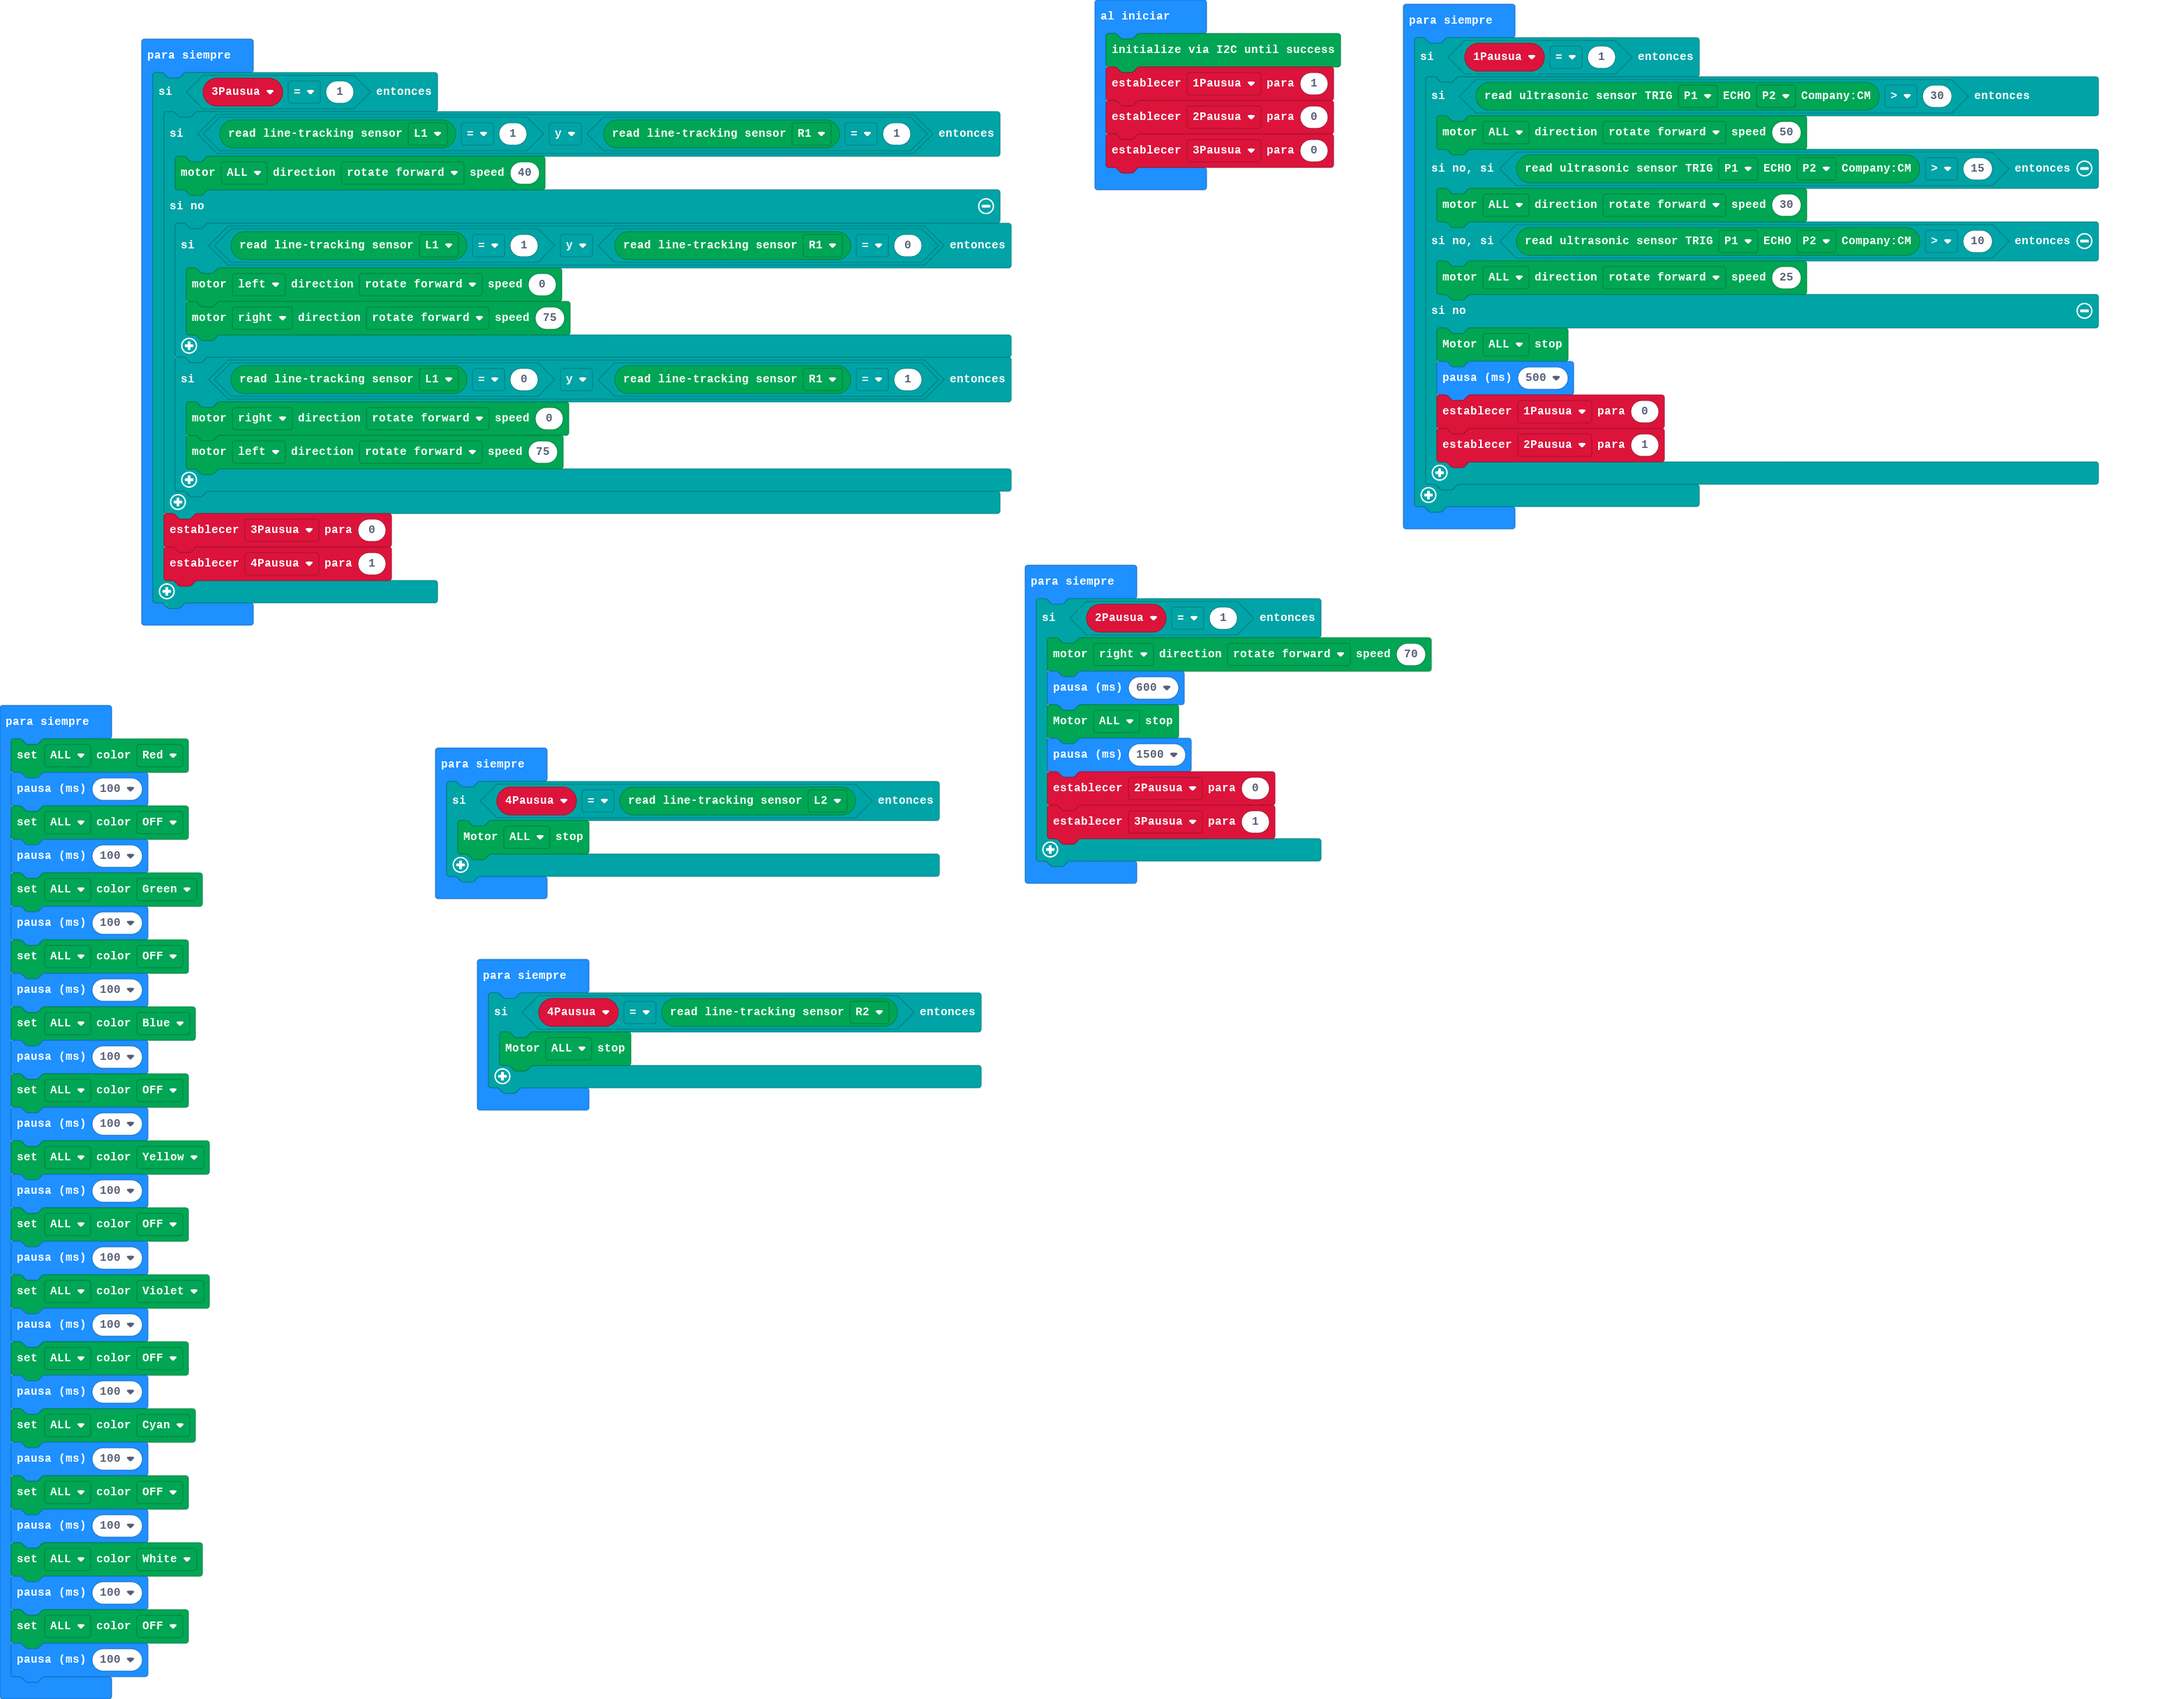
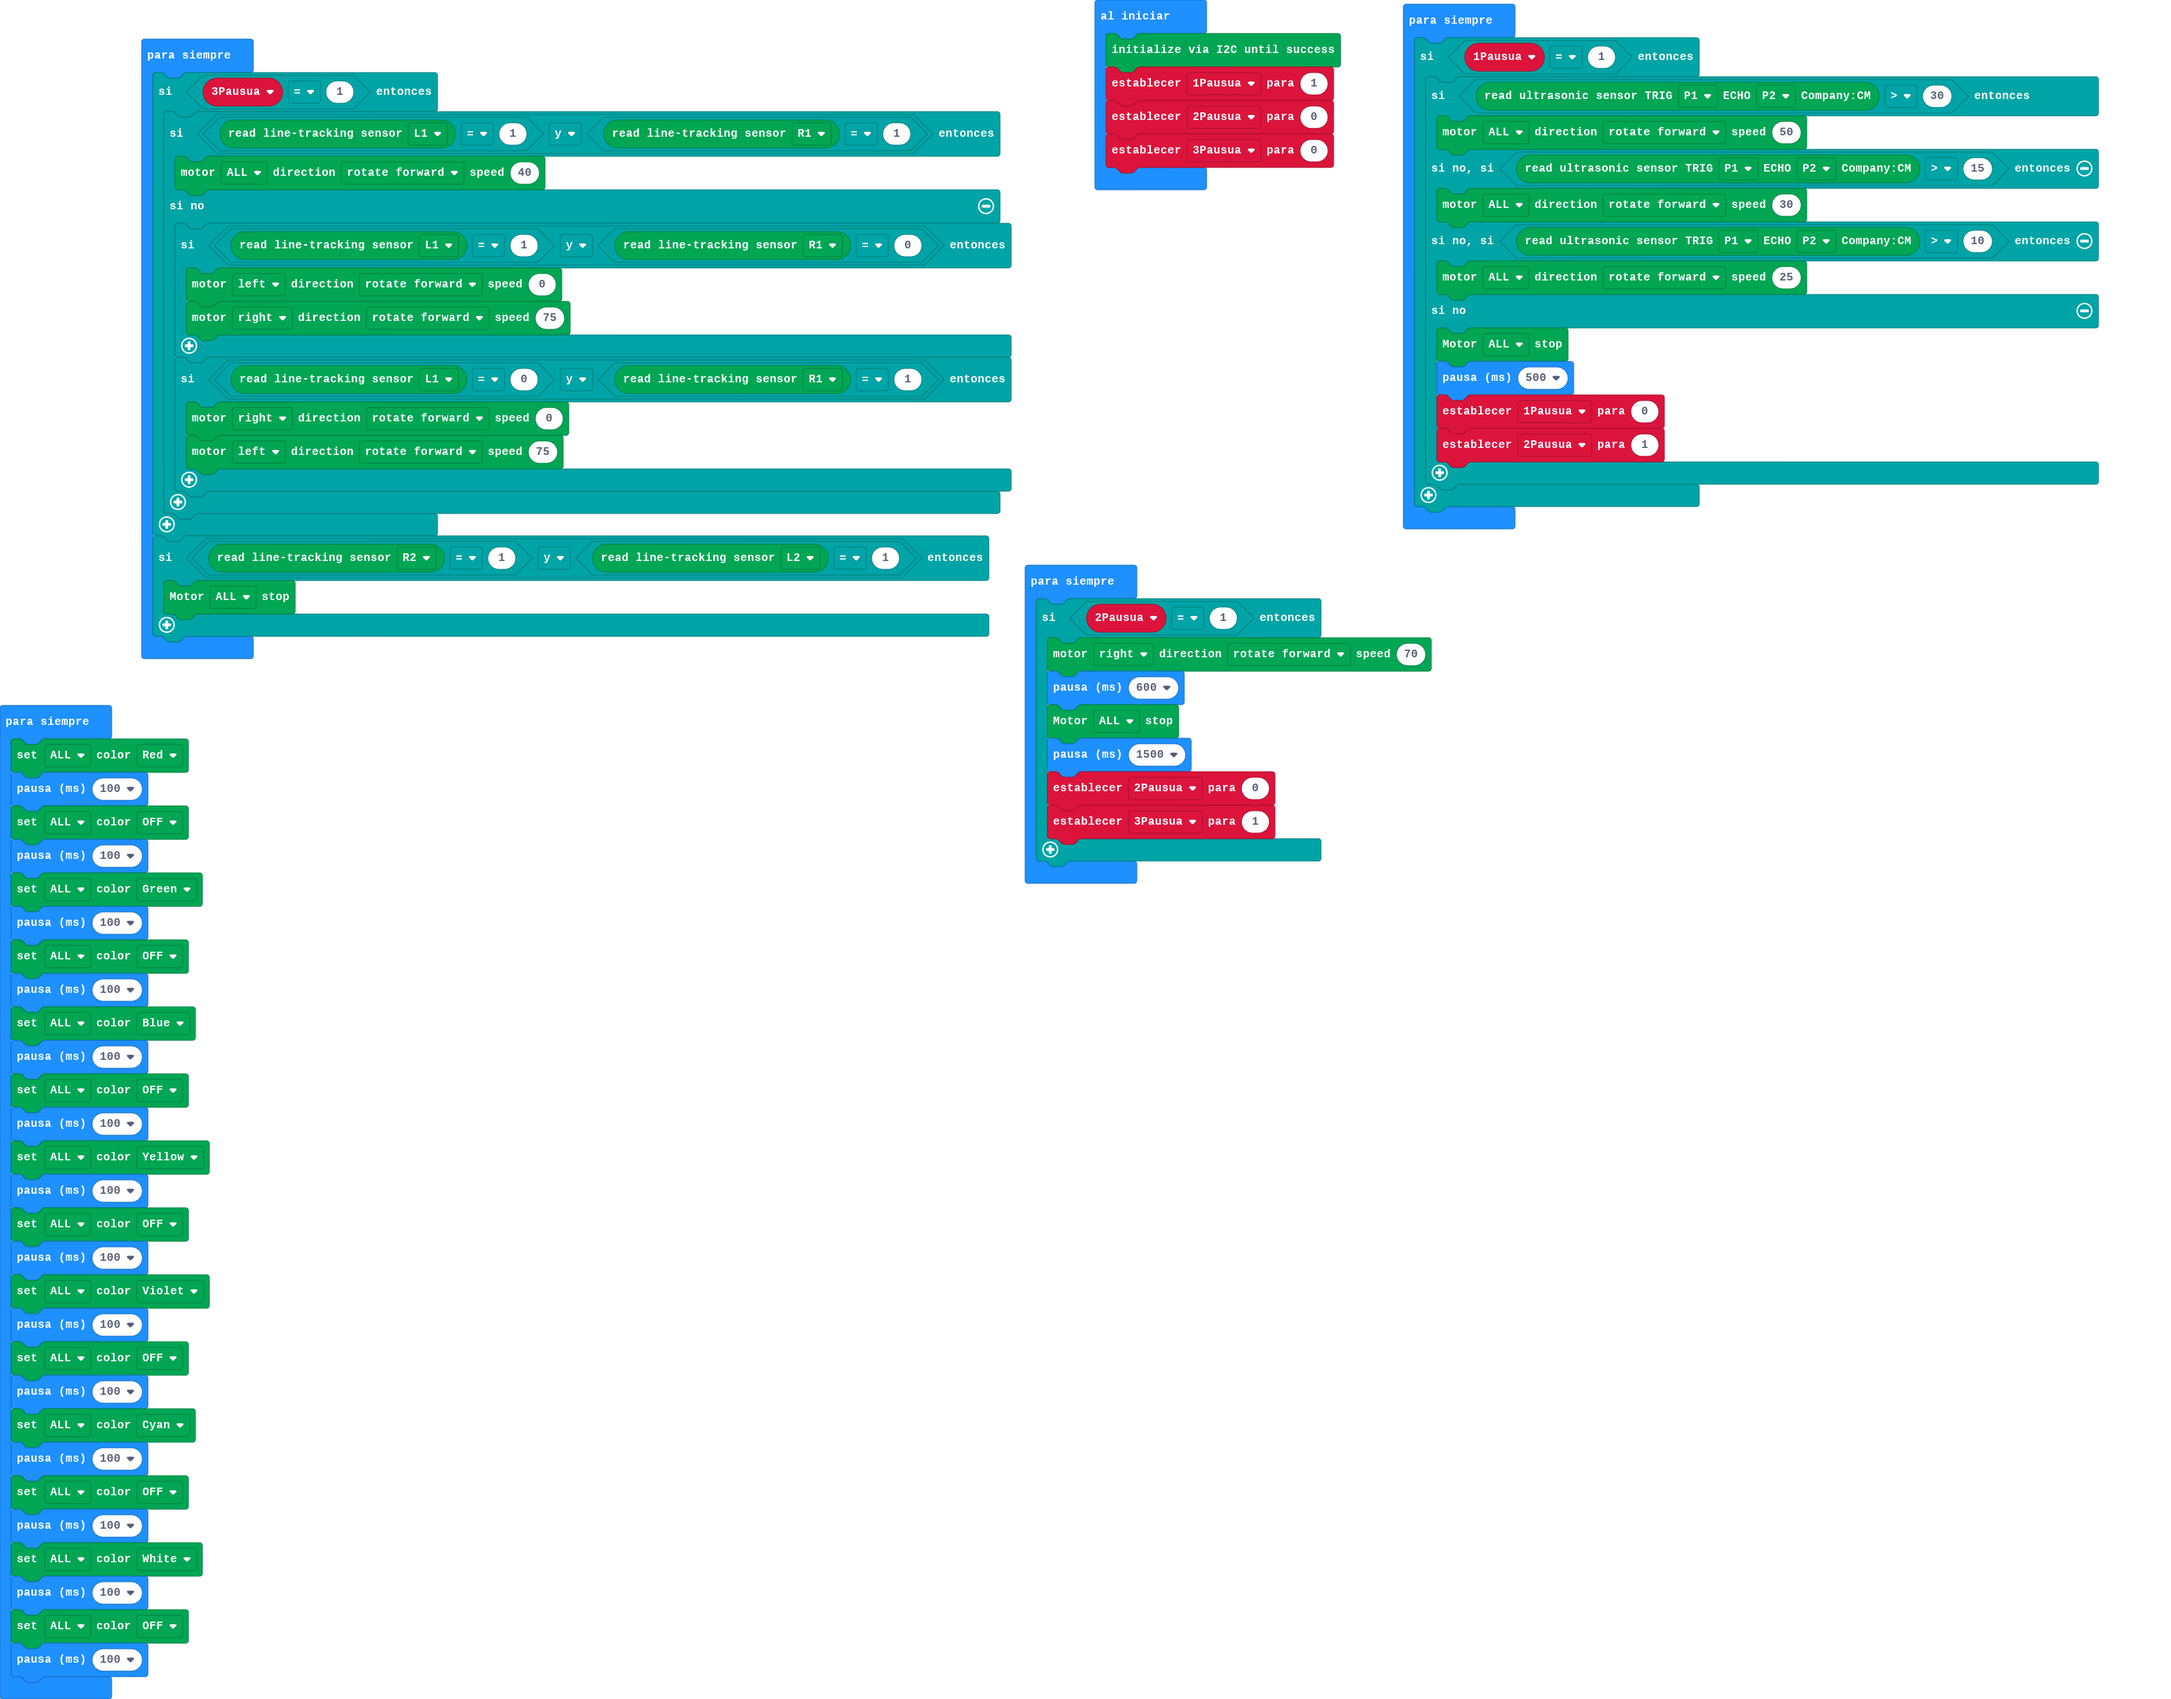
Actualizar main.blocks, main.ts

Changed region(s): [[0.0624, 0.2809, 0.4677, 0.4057], [0.2183, 0.5618, 0.4677, 0.6554], [0.1871, 0.437, 0.4365, 0.5306]]

diff --git a/main.ts b/main.ts
@@ -1,4 +1,3 @@
-let _4Pausua = 0
 DFRobotMaqueenPlus.I2CInit()
 let _1Pausua = 1
 let _2Pausua = 0
@@ -17,8 +16,9 @@ basic.forever(function () {
                 DFRobotMaqueenPlus.mototRun(Motors.M1, Dir.CW, 75)
             }
         }
-        _3Pausua = 0
-        _4Pausua = 1
+    }
+    if (DFRobotMaqueenPlus.readPatrol(Patrol.R2) == 1 && DFRobotMaqueenPlus.readPatrol(Patrol.L2) == 1) {
+        DFRobotMaqueenPlus.mototStop(Motors.ALL)
     }
 })
 basic.forever(function () {
@@ -76,14 +76,4 @@ basic.forever(function () {
     basic.pause(100)
     DFRobotMaqueenPlus.setRGBLight(RGBLight.RGBA, Color.OFF)
     basic.pause(100)
-})
-basic.forever(function () {
-    if (_4Pausua == DFRobotMaqueenPlus.readPatrol(Patrol.L2)) {
-        DFRobotMaqueenPlus.mototStop(Motors.ALL)
-    }
-})
-basic.forever(function () {
-    if (_4Pausua == DFRobotMaqueenPlus.readPatrol(Patrol.R2)) {
-        DFRobotMaqueenPlus.mototStop(Motors.ALL)
-    }
 })
